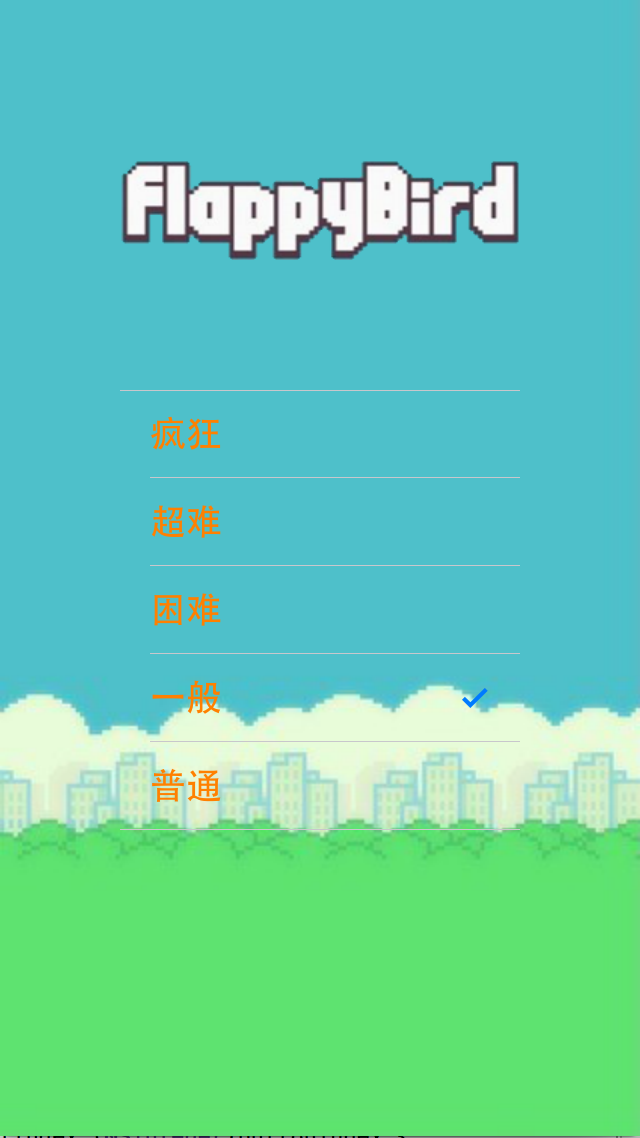
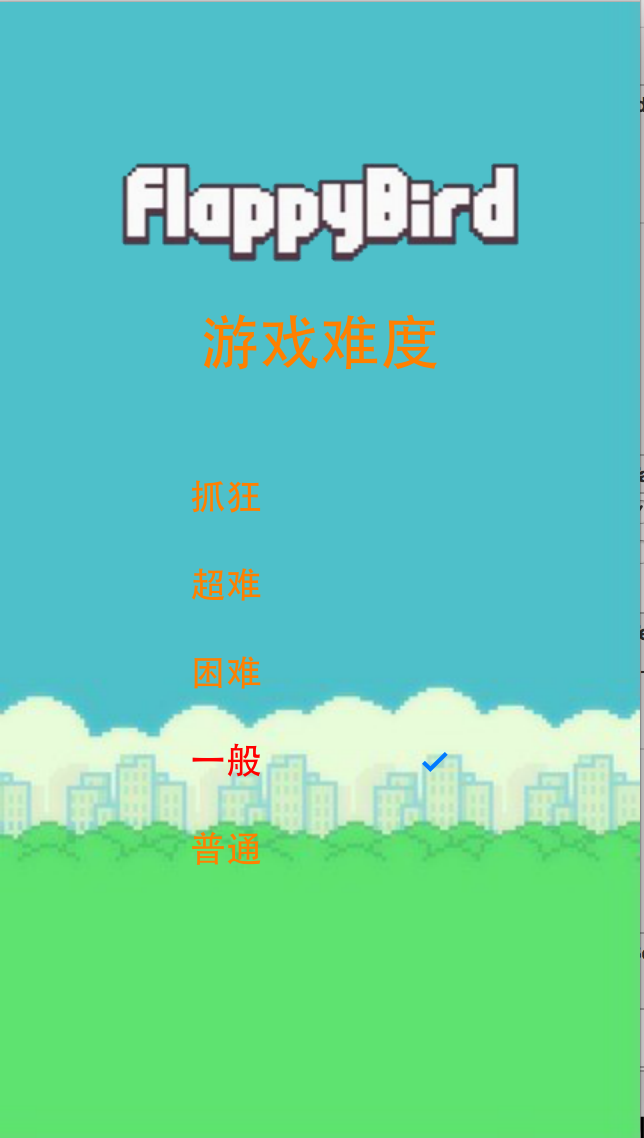
完成游戏难度设定；调整游戏等级显示界面

diff --git a/flappyBird/RateViewController.m b/flappyBird/RateViewController.m
@@ -21,7 +21,7 @@
     [super viewDidLoad];
     // Do any additional setup after loading the view.
     
-    _rates = [NSArray arrayWithObjects:@"疯狂", @"超难", @"困难", @"一般", @"普通", nil];
+    _rates = [NSArray arrayWithObjects:@"抓狂", @"超难", @"困难", @"一般", @"普通", nil];
     
     [self setupUI];
     
@@ -36,13 +36,25 @@
     UIImageView *titleView = [[UIImageView alloc]initWithFrame:CGRectMake(titleX, 80, kMainTitleW, kMainTitleH)];
     titleView.image = [UIImage imageNamed:@"main"];
     [self.view addSubview:titleView];
+    
+    //提示语
+    CGFloat tipsW = 120;
+    CGFloat tipsH = 40;
+    CGFloat tipsX = (kScreenWidth - tipsW) / 2;
+    UILabel *tips = [[UILabel alloc] initWithFrame:CGRectMake(tipsX, 150, tipsW, tipsH)];
+    tips.text = @"游戏难度";
+    tips.font = [UIFont boldSystemFontOfSize:30];
+    tips.textAlignment = NSTextAlignmentCenter;
+    tips.textColor = [UIColor orangeColor];
+    [self.view addSubview:tips];
 }
 
 -(void)setupTableView {
-    UITableView *tableView = [[UITableView alloc] initWithFrame:CGRectMake(60, 160, kScreenWidth-120, kScreenHeight - 260) style:UITableViewStyleGrouped];
+    CGFloat x = 80;
+    UITableView *tableView = [[UITableView alloc] initWithFrame:CGRectMake(x, 190, kScreenWidth-2*x, kScreenHeight - 230) style:UITableViewStyleGrouped];
     tableView.delegate = self;
     tableView.dataSource = self;
-    //tableView.separatorStyle = UITableViewCellSeparatorStyleNone;
+    tableView.separatorStyle = UITableViewCellSeparatorStyleNone;
     tableView.scrollEnabled = NO; //设置tableview 不能滚动
     [self.view addSubview:tableView];
     tableView.backgroundColor = [UIColor clearColor];
@@ -60,15 +72,16 @@
         cell = [[UITableViewCell alloc] initWithStyle:UITableViewCellStyleDefault reuseIdentifier:cellId];
     }
     
-    cell.textLabel.textColor = [UIColor orangeColor];
     cell.textLabel.font = [UIFont boldSystemFontOfSize:18];
     cell.textLabel.text = _rates[indexPath.row];
     cell.backgroundColor = [UIColor clearColor];
     cell.selectionStyle = UITableViewCellSelectionStyleNone; //设置表格选择样式,不显示选中的样式
     if ([cell.textLabel.text isEqualToString:[DataTool stringForKey:kRateKey]]) {
         cell.accessoryType = UITableViewCellAccessoryCheckmark;
+        cell.textLabel.textColor = [UIColor redColor];
     }else{
         cell.accessoryType = UITableViewCellAccessoryNone;
+        cell.textLabel.textColor = [UIColor orangeColor];
     }
     
     return cell;

diff --git a/flappyBird/GameViewController.m b/flappyBird/GameViewController.m
@@ -14,8 +14,6 @@
 #import "DataTool.h"
 #import "GameOverView.h"
 
-#define kTunnelHeight 80
-
 @interface GameViewController ()<GameOverViewDelegate>
 {
     UIImageView *roadView;
@@ -103,6 +101,21 @@
 }
 
 -(void)pipe {
+    //通道高度
+    NSInteger tunnelHeight = 0;
+    //根据游戏难度设定通道高度
+    if([[DataTool stringForKey:kRateKey] isEqualToString:@"普通"]) {
+        tunnelHeight = 100;
+    }else if([[DataTool stringForKey:kRateKey] isEqualToString:@"一般"]) {
+        tunnelHeight = 90;
+    }else if([[DataTool stringForKey:kRateKey] isEqualToString:@"困难"]) {
+        tunnelHeight = 80;
+    }else if([[DataTool stringForKey:kRateKey] isEqualToString:@"超难"]) {
+        tunnelHeight = 75;
+    } else if([[DataTool stringForKey:kRateKey] isEqualToString:@"抓狂"]) {
+        tunnelHeight = 70;
+    }
+    
     //柱子图像
     NSInteger tall = arc4random() % 200 + 40;
     
@@ -110,7 +123,7 @@
     topPipe.image = [UIImage imageNamed:@"pipe"];
     [self.view addSubview:topPipe];
 
-    bottomPipe = [[UIImageView alloc]initWithFrame:CGRectMake(320, tall + kTunnelHeight, 70, 400)];
+    bottomPipe = [[UIImageView alloc]initWithFrame:CGRectMake(320, tall + tunnelHeight, 70, 400)];
     bottomPipe.image = [UIImage imageNamed:@"pipe"];
     [self.view addSubview:bottomPipe];
 
